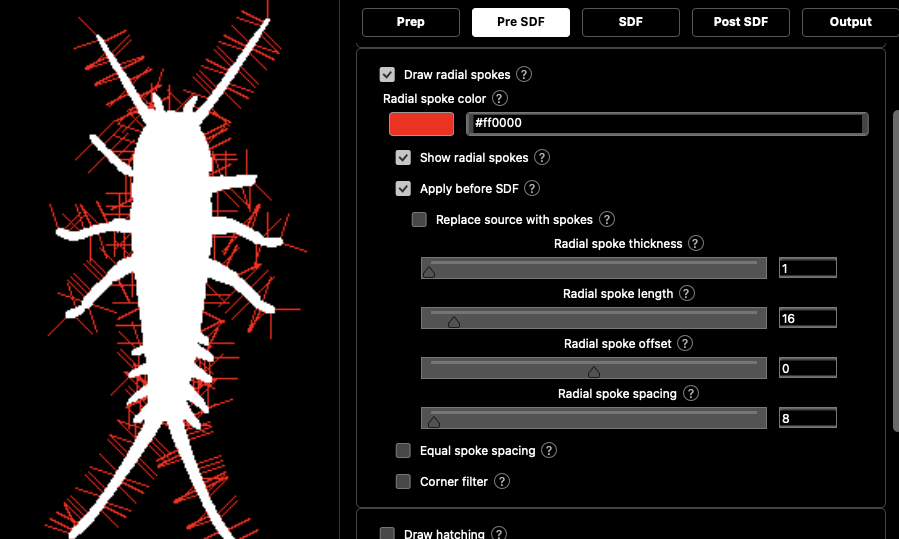
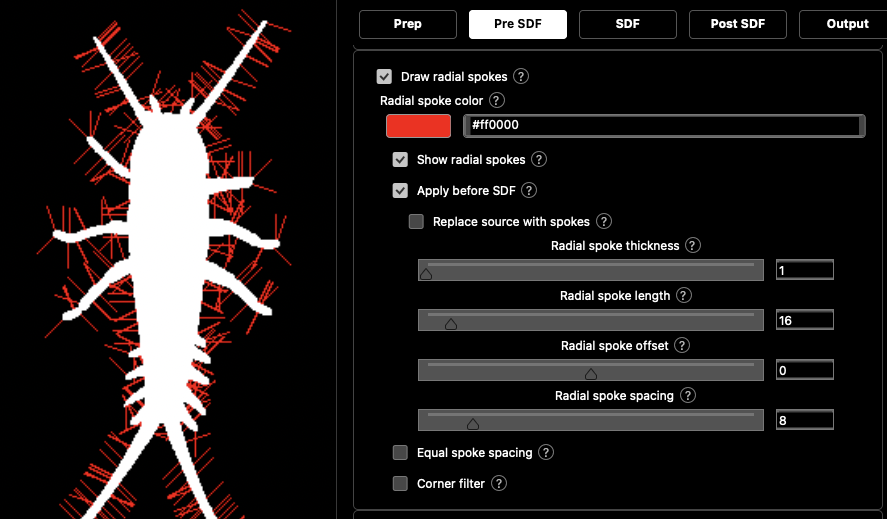
tmp

Changed region(s): [[0.3653, 0.0, 1.0, 1.0], [0.0304, 0.0, 0.3348, 1.0]]

diff --git a/pages/5-1-tangent-lines.md b/pages/5-1-tangent-lines.md
@@ -42,8 +42,24 @@ By checking "Replace Source with Tangent Lines", we're essentially saying "I ONL
 
 ![img](/images/tangent-8.png)
 
-All this is intended to be a procedural way to feed interesting input to the SDF and Post SDF settings. For example, here's a result with the Concentric Lines effect enabled again:
+Enabling "Hide lines inside source" will prevent the lines from crossing into the input shape:
 
-![img](/images/tangent-9.png)
+![img](/images/tangent-10.png)
+
+As you'd expect, "Hide lines outside source" does the opposite: 
+
+![img](/images/tangent-14.png)
+
+"Post noise" is by default in "displacement" mode, which can give tendril-like results when frequency is turned low:
+
+![img](/images/tangent-11.png)
+
+The other "Post noise" type is "Erode / Dilate" which produces a more staticky type effect:
+
+![img](/images/tangent-12.png)
+
+Tangent lines can produce cool results by itself, and can give interesting variations when combined with the various SDF and Post SDF settings. For example, when we take that previous Erode / Dilate example and feed it into an SDF with "Preserve Growth Intersections" and "Draw Concentric Lines" enabled, we get something that kinda looks like coral, or a fossil.
+
+![img](/images/tangent-13.png)
 
 [Next: Edge Roughen](/pages/5-2-edge-roughen.md)

diff --git a/pages/5-3-radial.md b/pages/5-3-radial.md
@@ -8,6 +8,24 @@ This effect is similar to "Tangent Lines" but rather than drawing lines which fo
 
 ![img](/images/radial-1.png)
 
+Many of the controls will be familiar from the Tangent Lines effect. For example here I've decreased Line Length, increased density by lowering Spacing, and offset from center:
 
+![img](/images/radial-2.png)
 
-[Next: Radial Spokes](/pages/5-3-radial-spokes.md)
+"Equal Spoke Spacing" attempts to space the lines equally from one another (alas, it is still imperfect - a potential area of improvement):
+
+![img](/images/radial-3.png)
+
+As with Tangent Lines, there are options to control how the generated lines feed into the output:
+
+![img](/images/radial-4.png)
+
+"Corner Filter" (adjusted with "Corner Sensitivity") can be used to only show lines at areas with high curvature. Applying a bit of blur beforehand can smooth out surface noise and produce a cleaner result here:
+
+![img](/images/radial-5.png)
+
+Note that by default, lines are produced at both convex and concave curves. This can be adjusted using the "Corner Side Filter" settings:
+
+![img](/images/radial-6.png)
+
+[Next: Radial Spokes](/pages/5-4-hatching.md)

diff --git a/pages/5-4-hatching.md b/pages/5-4-hatching.md
@@ -1,0 +1,11 @@
+[back to docs root](/README.md)
+
+[back to Pre-SDF docs](/pages/5-pre-sdf.md)
+
+# Pre SDF: Hatching
+
+This is a simple effect which just draws fixed width lines 
+
+![img](/images/hatching-1.png)
+
+[Next: Radial Spokes](/pages/5-5-stipple.md)

diff --git a/pages/5-2-edge-roughen.md b/pages/5-2-edge-roughen.md
@@ -20,4 +20,4 @@ Here's an example of how Edge Roughen can alter an effect, with various frequenc
 
 ![img](/images/roughen-3.png)
 
-[Next: Radial Spokes](/pages/5-3-radial-spokes.md)
+[Next: Radial Spokes](/pages/5-3-radial.md)

diff --git a/README.md b/README.md
@@ -14,7 +14,7 @@
 
     2. [Edge roughen](/pages/5-2-edge-roughen.md)
 
-    3. [Radial Spokes](/pages/5-3-radial-spokes.md)
+    3. [Radial Spokes](/pages/5-3-radial.md)
 
     4. [Hatching](/pages/5-4-hatching.md)
 
